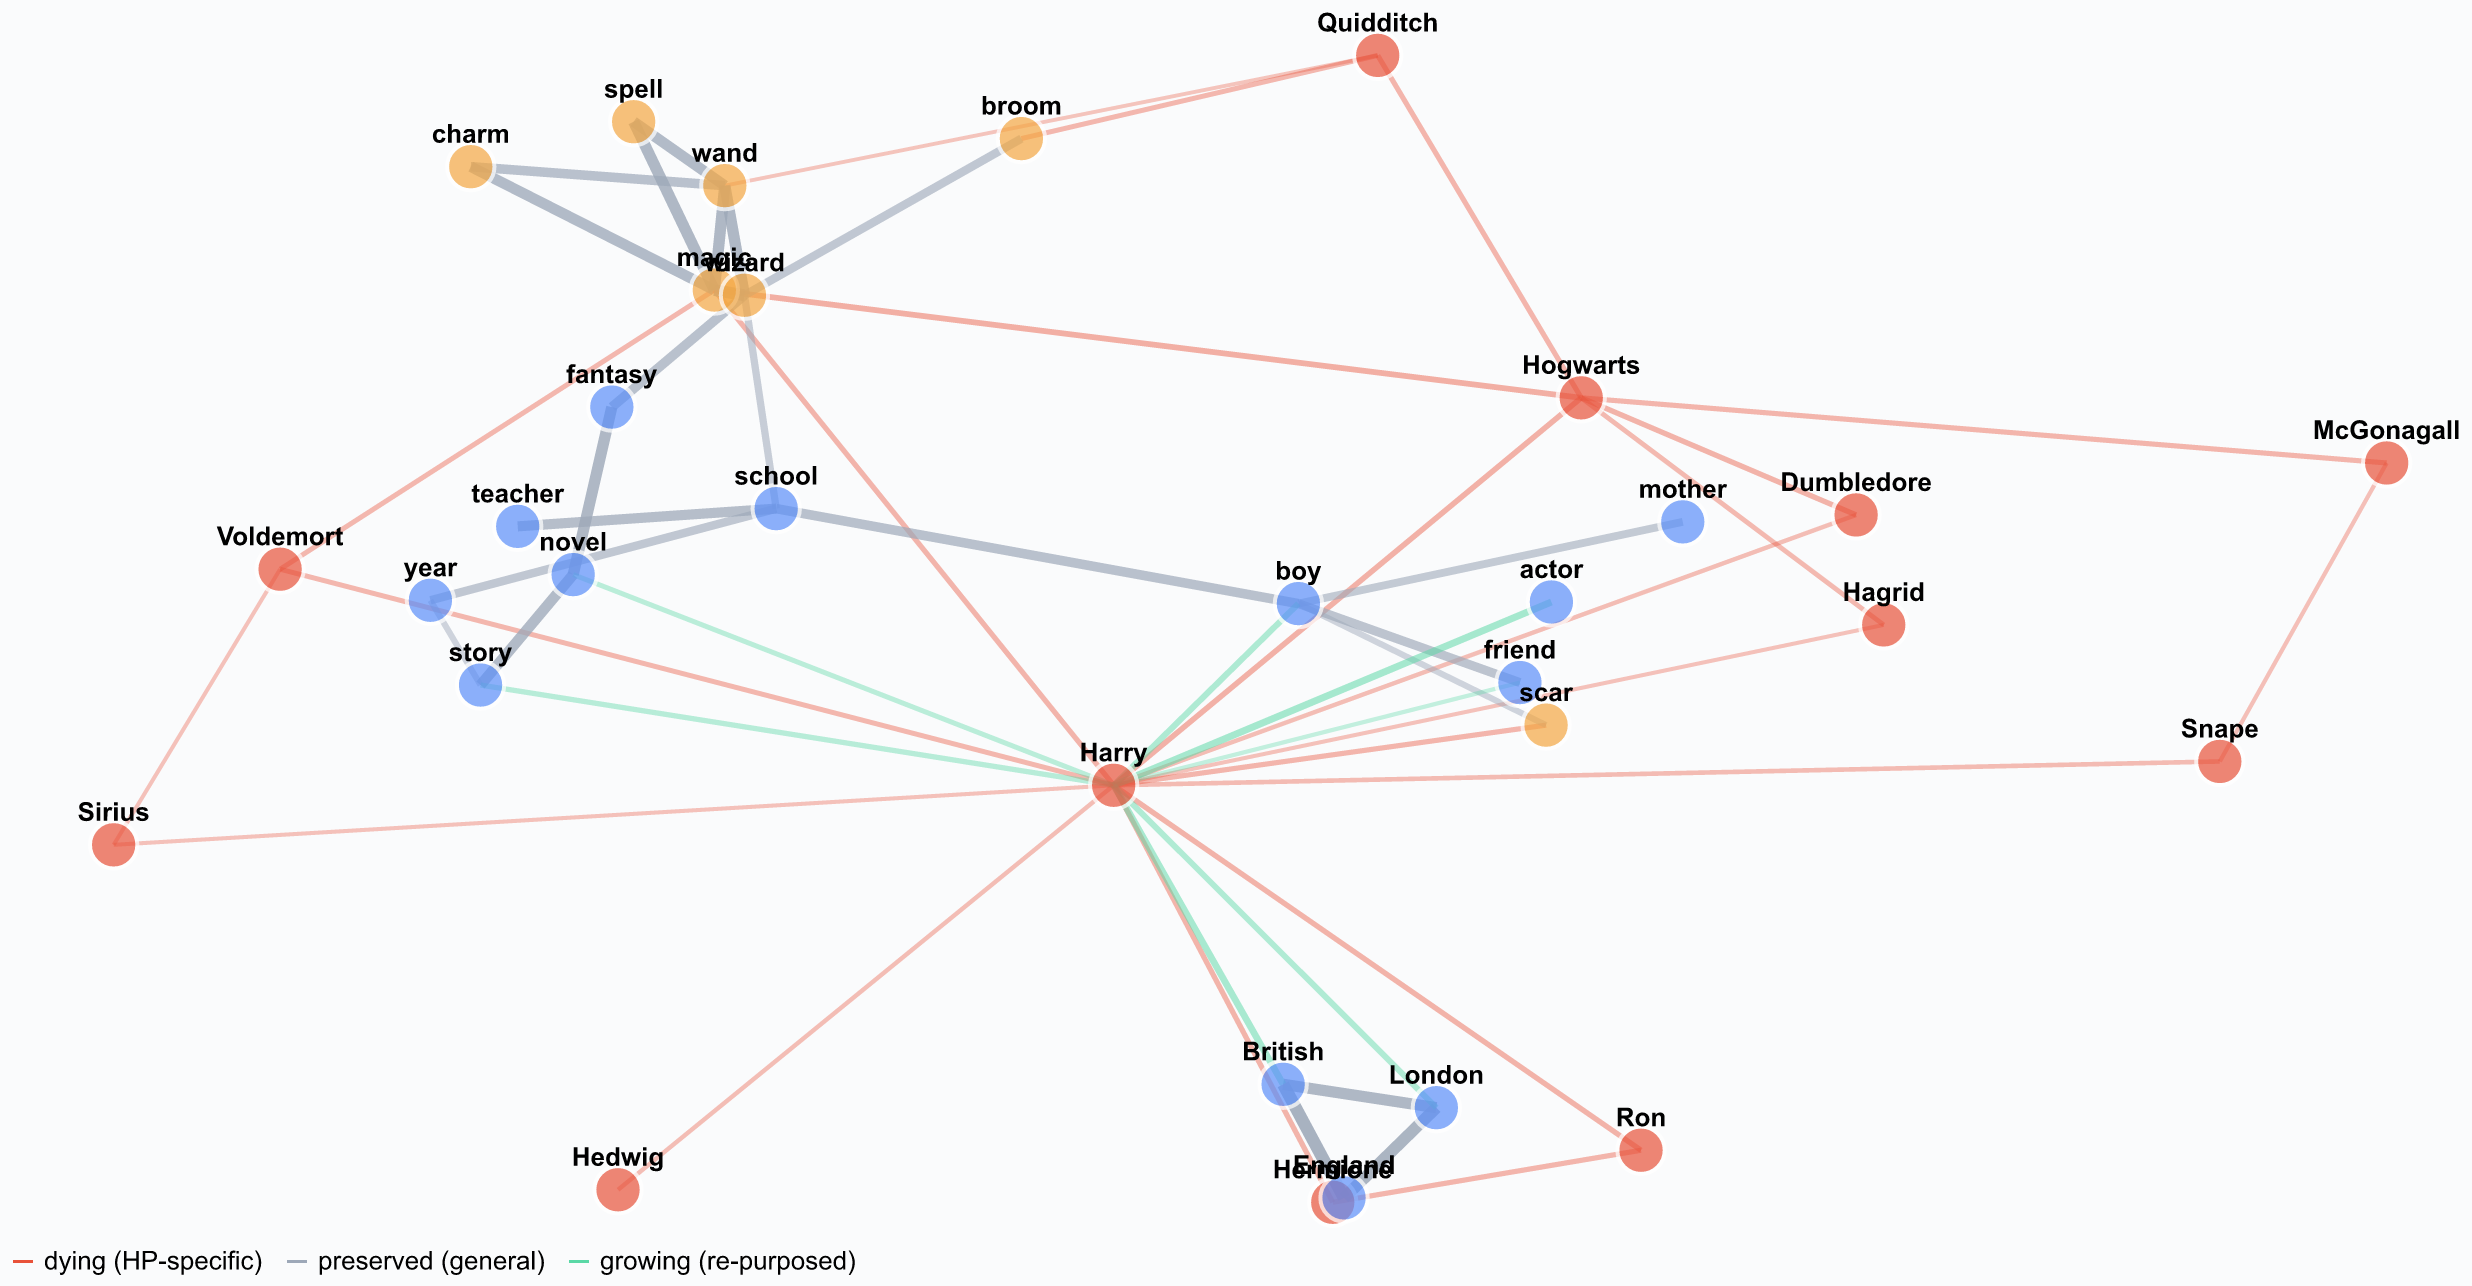
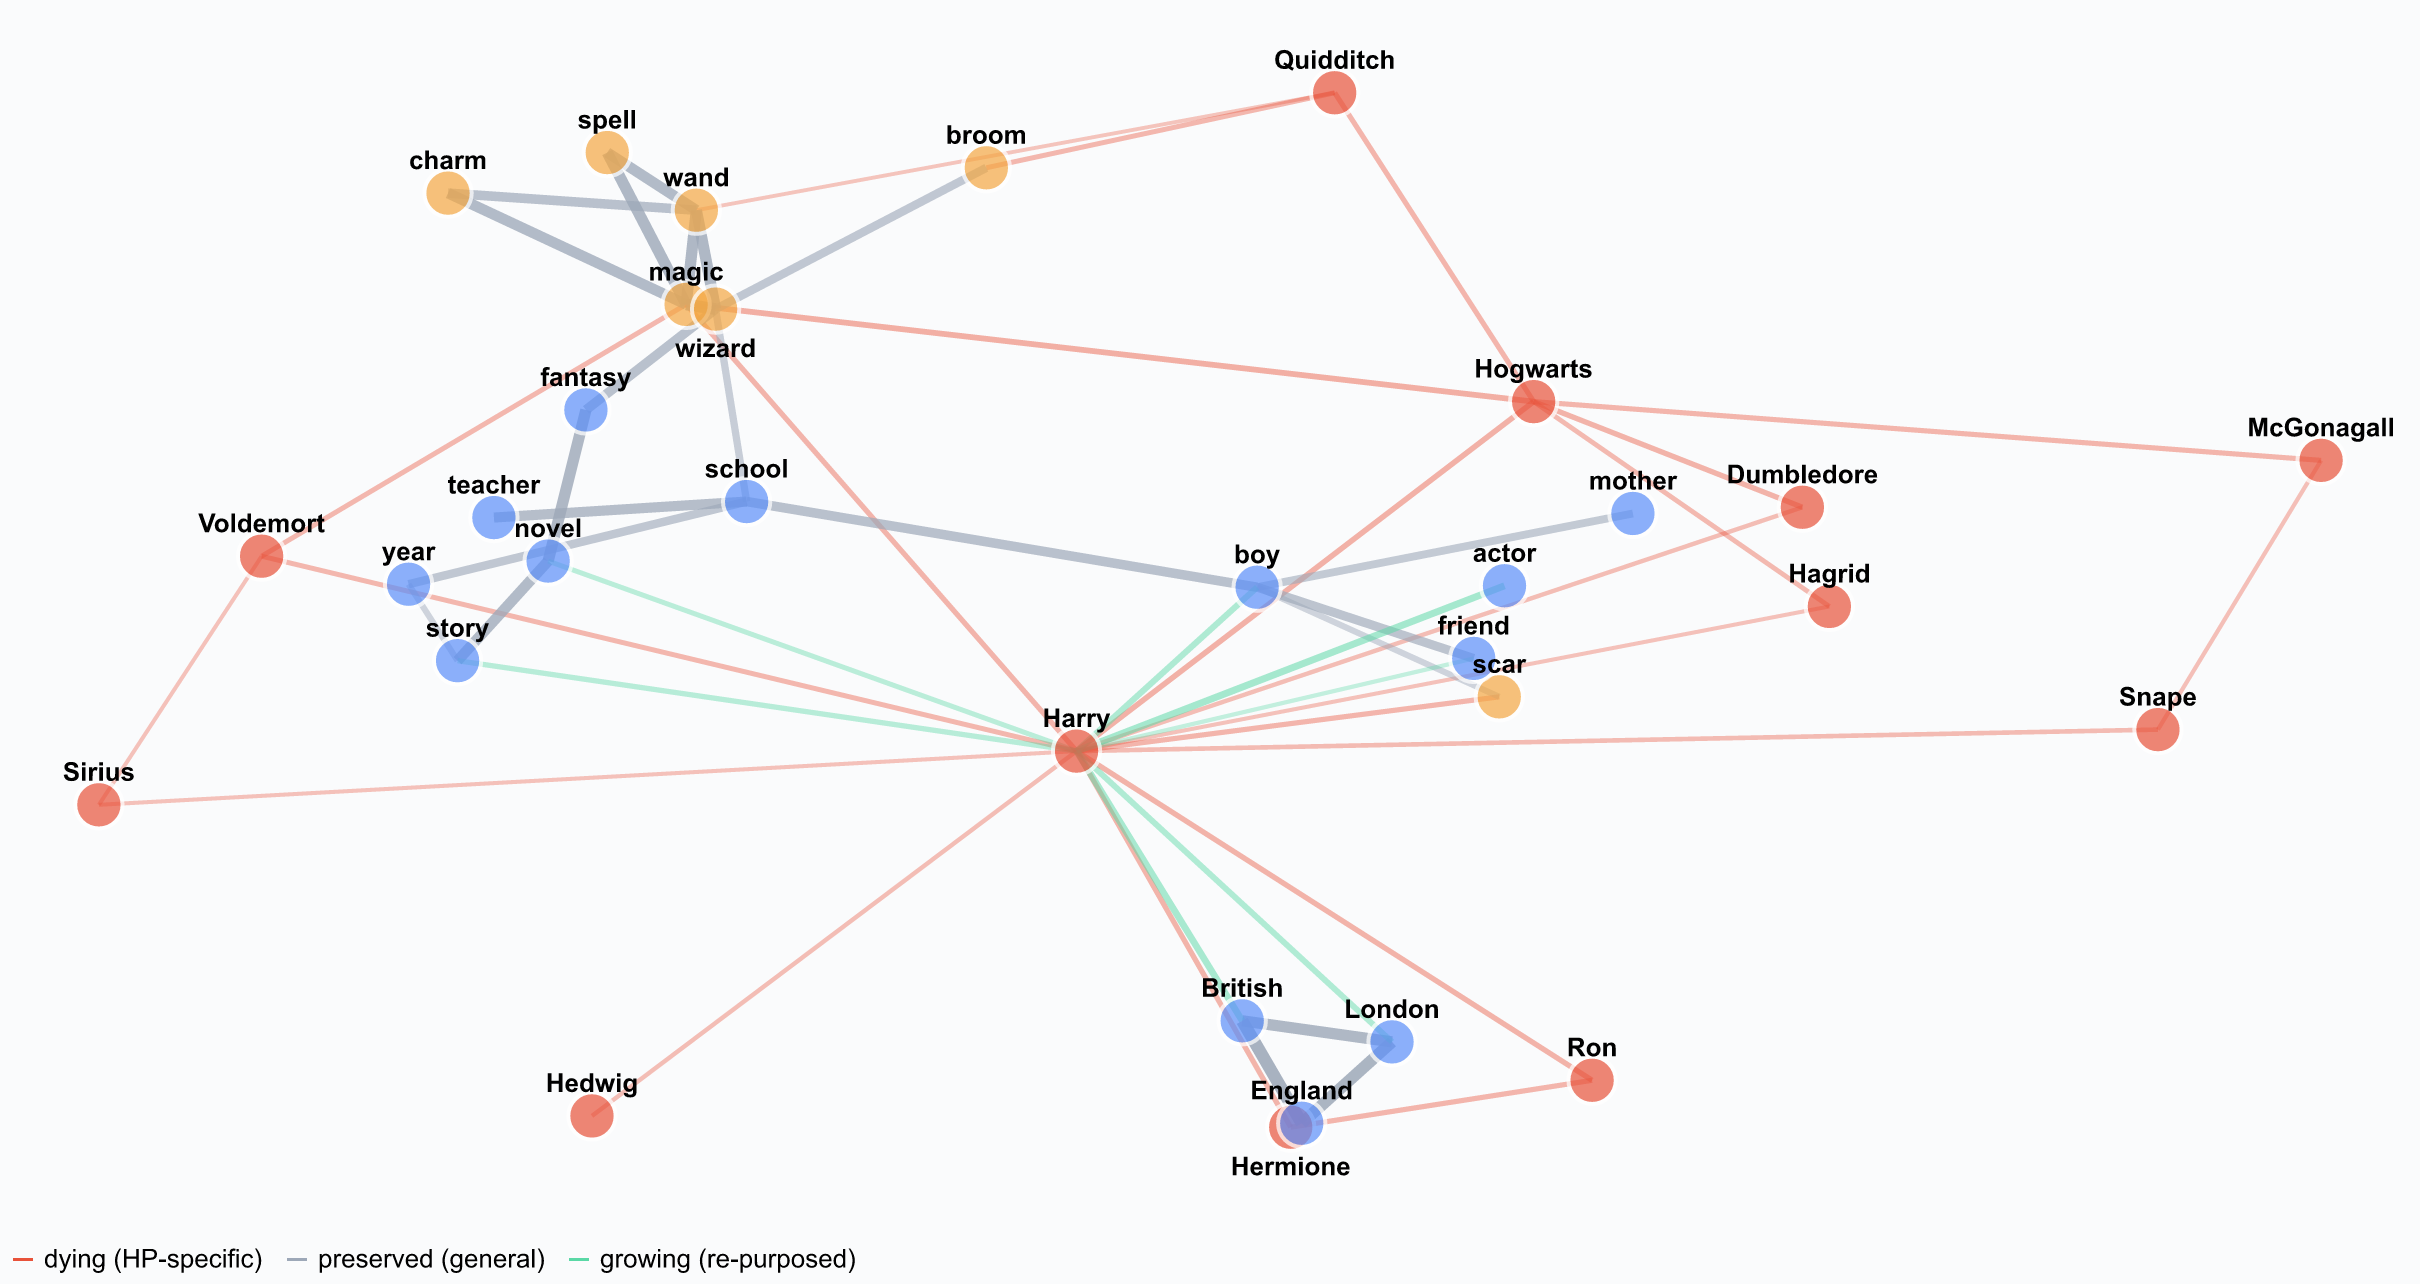
fix(hero): separate overlapping node labels in the static hero image
At step 80 two node pairs nearly coincide, so their labels stacked:
"magic"/"wizard" and "Hermione"/"England". render_hero.py now places
labels top-down and moves a label below its node only when the spot
above is taken; node positions are unchanged. Explicit, un-niced scale
domains make the data-to-pixel mapping exact, so the overlap test matches
the rendered image. The script prints which labels moved and warns if
any still overlap. Regenerated deploy/hero.png (2420x1284).

diff --git a/scripts/render_hero.py b/scripts/render_hero.py
@@ -126,9 +126,53 @@ for _s, _t2, _w0, _w120 in EDGES:
     })
 edge_df = pd.DataFrame(edge_rows)
 
+# --- label placement ---------------------------------------------------------
+# Labels sit above their node by default. Where two would overlap (nodes nearly
+# on top of each other at this step, e.g. magic/wizard), the later one moves
+# below its node; node positions never change. Explicit, un-niced scale domains
+# make the data -> pixel mapping exact, so this overlap test matches the image.
+W, H = 1200, 600
+_xs, _ys = node_df["x"], node_df["y"]
+_pad_x = 0.04 * (_xs.max() - _xs.min())
+_pad_y = 0.08 * (_ys.max() - _ys.min())
+X_DOMAIN = [_xs.min() - _pad_x, _xs.max() + _pad_x]
+Y_DOMAIN = [_ys.min() - _pad_y, _ys.max() + _pad_y]
+X_SCALE = alt.Scale(domain=X_DOMAIN, nice=False, zero=False)
+Y_SCALE = alt.Scale(domain=Y_DOMAIN, nice=False, zero=False)
+LABEL_ABOVE, LABEL_BELOW = -16, 20  # text dy in px
+CHAR_W, LABEL_H = 7.8, 16           # rough box for 13 px bold text
+
+
+def _label_box(row, dy):
+    cx = (row.x - X_DOMAIN[0]) / (X_DOMAIN[1] - X_DOMAIN[0]) * W
+    cy = (Y_DOMAIN[1] - row.y) / (Y_DOMAIN[1] - Y_DOMAIN[0]) * H + dy
+    half_w = (len(row.label) * CHAR_W + 6) / 2
+    return (cx - half_w, cy - LABEL_H / 2, cx + half_w, cy + LABEL_H / 2)
+
+
+def _overlaps(a, b):
+    return a[0] < b[2] and b[0] < a[2] and a[1] < b[3] and b[1] < a[3]
+
+
+_placed, _below, _unresolved = [], [], []
+for _row in node_df.sort_values("y", ascending=False).itertuples():
+    _up = _label_box(_row, LABEL_ABOVE)
+    if not any(_overlaps(_up, p) for p in _placed):
+        _placed.append(_up)
+        continue
+    _down = _label_box(_row, LABEL_BELOW)
+    if not any(_overlaps(_down, p) for p in _placed):
+        _placed.append(_down)
+        _below.append(_row.label)
+    else:
+        _placed.append(_up)
+        _unresolved.append(_row.label)
+node_df["below"] = node_df["label"].isin(_below)
+
 edges = (
     alt.Chart(edge_df).mark_rule().encode(
-        x=alt.X("x:Q", axis=None), y=alt.Y("y:Q", axis=None),
+        x=alt.X("x:Q", axis=None, scale=X_SCALE),
+        y=alt.Y("y:Q", axis=None, scale=Y_SCALE),
         x2="x2:Q", y2="y2:Q",
         strokeWidth=alt.StrokeWidth("weight:Q",
             scale=alt.Scale(domain=[0, 1], range=[0.8, 6.5]), legend=None),
@@ -141,16 +185,24 @@ edges = (
 )
 nodes = (
     alt.Chart(node_df).mark_circle(size=560, stroke="white", strokeWidth=2).encode(
-        x="x:Q", y="y:Q",
+        x=alt.X("x:Q", axis=None, scale=X_SCALE),
+        y=alt.Y("y:Q", axis=None, scale=Y_SCALE),
         color=alt.Color("zone:N",
             scale=alt.Scale(domain=list(ZONE_PALETTE), range=list(ZONE_PALETTE.values())),
             legend=None),
     )
 )
-labels = (
-    alt.Chart(node_df).mark_text(dy=-16, fontSize=13, fontWeight="bold").encode(
-        x="x:Q", y="y:Q", text="label:N")
-)
+
+
+def _label_layer(df, dy):
+    return alt.Chart(df).mark_text(dy=dy, fontSize=13, fontWeight="bold").encode(
+        x=alt.X("x:Q", axis=None, scale=X_SCALE),
+        y=alt.Y("y:Q", axis=None, scale=Y_SCALE),
+        text="label:N")
+
+
+labels = (_label_layer(node_df[~node_df["below"]], LABEL_ABOVE)
+          + _label_layer(node_df[node_df["below"]], LABEL_BELOW))
 
 chart = (
     (edges + nodes + labels)
@@ -160,7 +212,7 @@ chart = (
     # are the true zone colors and only the edge legend shows (nodes set
     # legend=None).
     .resolve_scale(color="independent")
-    .properties(width=1200, height=600, background="#fafbfc")
+    .properties(width=W, height=H, background="#fafbfc")
     .configure_axis(grid=False)
     .configure_view(stroke=None)
 )
@@ -168,3 +220,6 @@ chart = (
 OUT.parent.mkdir(parents=True, exist_ok=True)
 chart.save(str(OUT), scale_factor=2.0)
 print(f"wrote {OUT} (step {STEP}, {len(edge_rows)} edges drawn). VERIFY IT VISUALLY.")
+print(f"labels moved below their node: {_below or 'none'}")
+if _unresolved:
+    print(f"WARNING: labels still overlapping above and below: {_unresolved}")
